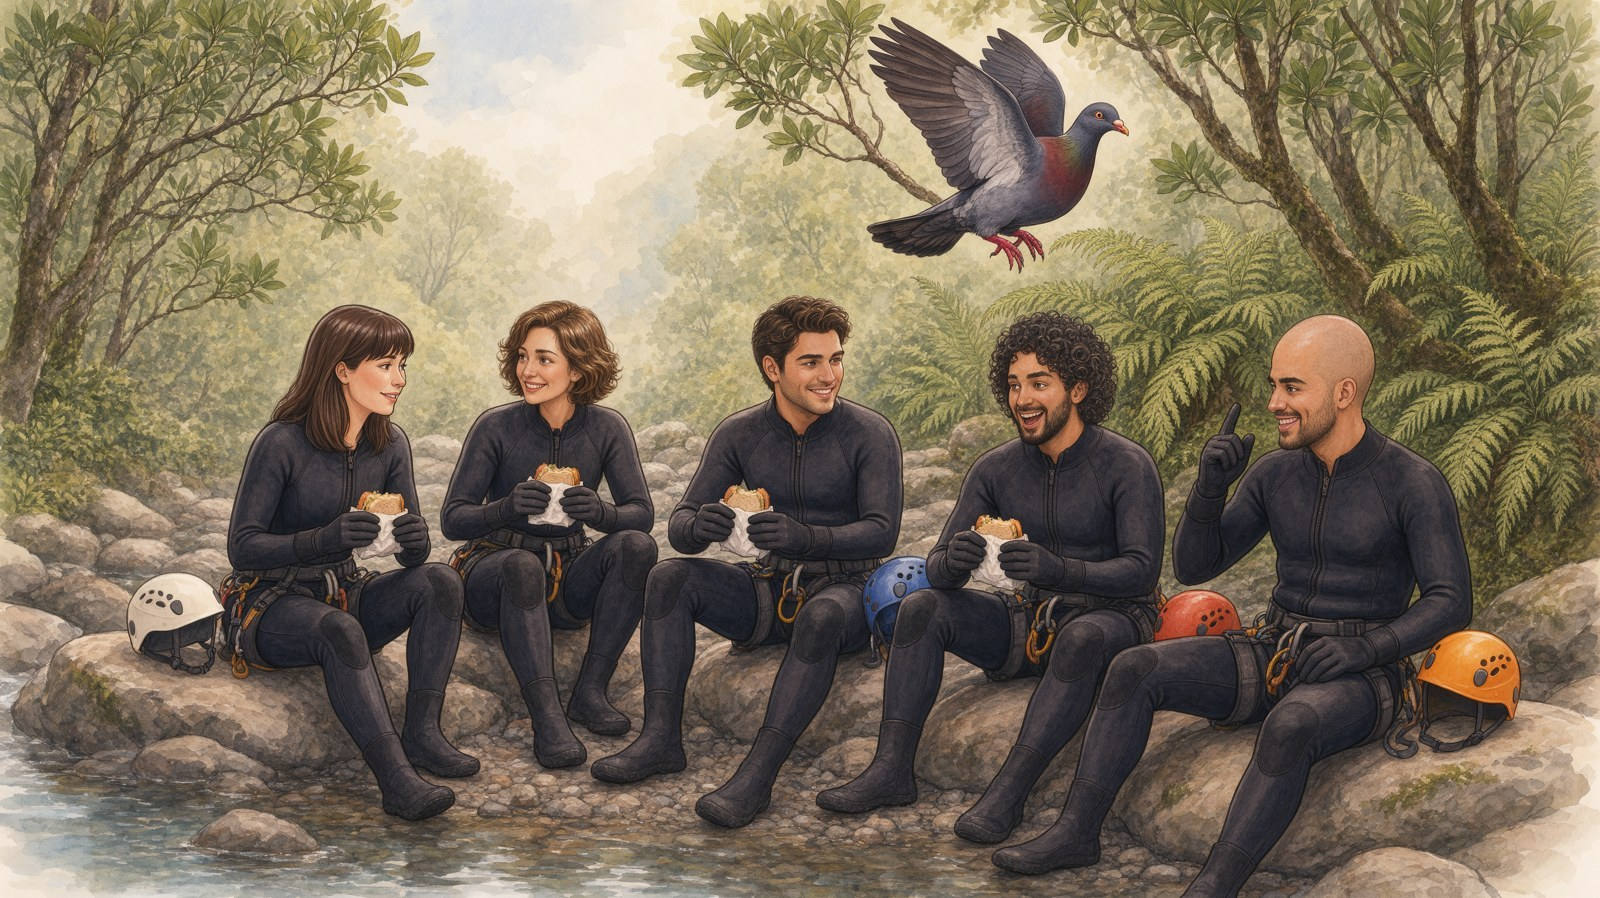
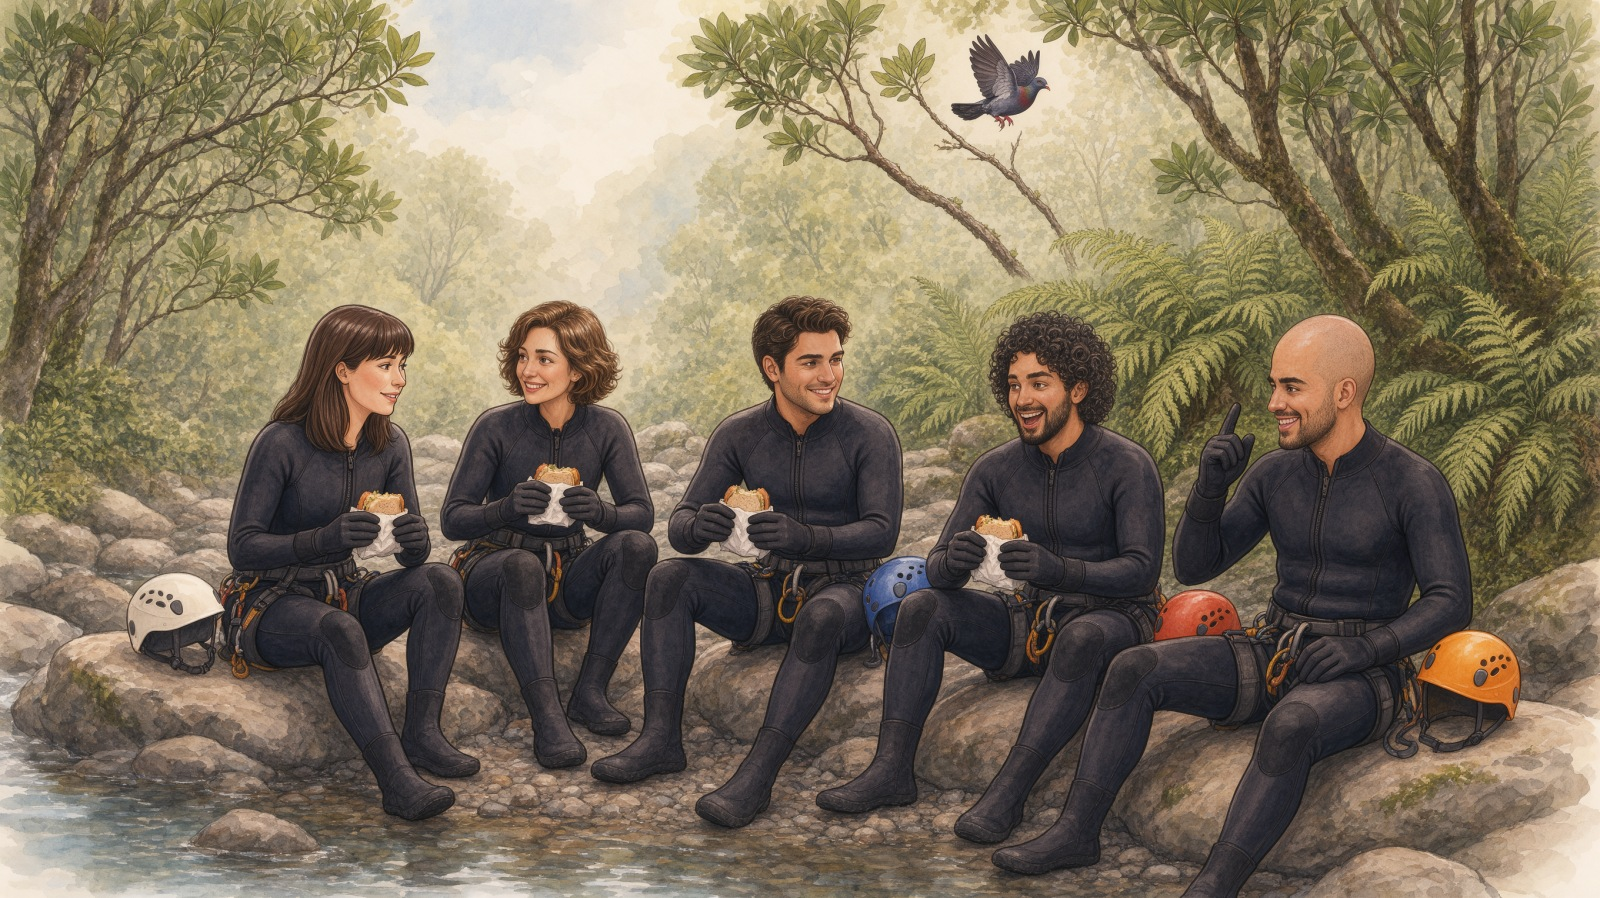
Book 18: fix flagged pictures p1, p5, p7, p8 after the user's review
Claude-Session: https://claude.ai/code/session_01QETqfy7oCZmnPUVD333HTN

Changed region(s): [[0.5312, 0.0, 0.7188, 0.3118]]

diff --git a/tools/b18/README.md b/tools/b18/README.md
@@ -1,8 +1,11 @@
 # Book 18 (in progress): «Antes que Mudes de Ideias» — id `ribeira`
 
-Status (Oct 27, 2026): text approved; first set of 8 pictures painted and shown to the user
-(`books/18-ribeira/art/contact18.jpg`); waiting for the user's picture review. Paused for Krea credits
-(about 450 units left; the plan renews about Nov 15, 2026).
+Status (Nov 15, 2026): text approved; user reviewed the pictures and asked to fix the flagged pages
+(darker forest is fine). Fixed by regional edits: p1 Tiago's cap forwards; p5 pigeon smaller and farther;
+p7 João's face (short wavy hair, light stubble, no curls/beard); p8 towels as planned (João green, Rita cobalt)
+and flip-flops instead of bare feet. New contact sheet `books/18-ribeira/art/contact18.jpg` shown to the user;
+on their OK, go to the build. Krea plan is now Individual Pro, 20,000 units a month (was Max, 54,000).
+`sobe` (p7) stays untagged-highlight: flagged as not shown.
 
 Language step: *caso / para que / antes que* + present subjunctive (a canyoning safety briefing).
 New friend: Bruno, firefighter and canyoning guide. Ends on Tiago asking Rita to dinner, no answer yet.
